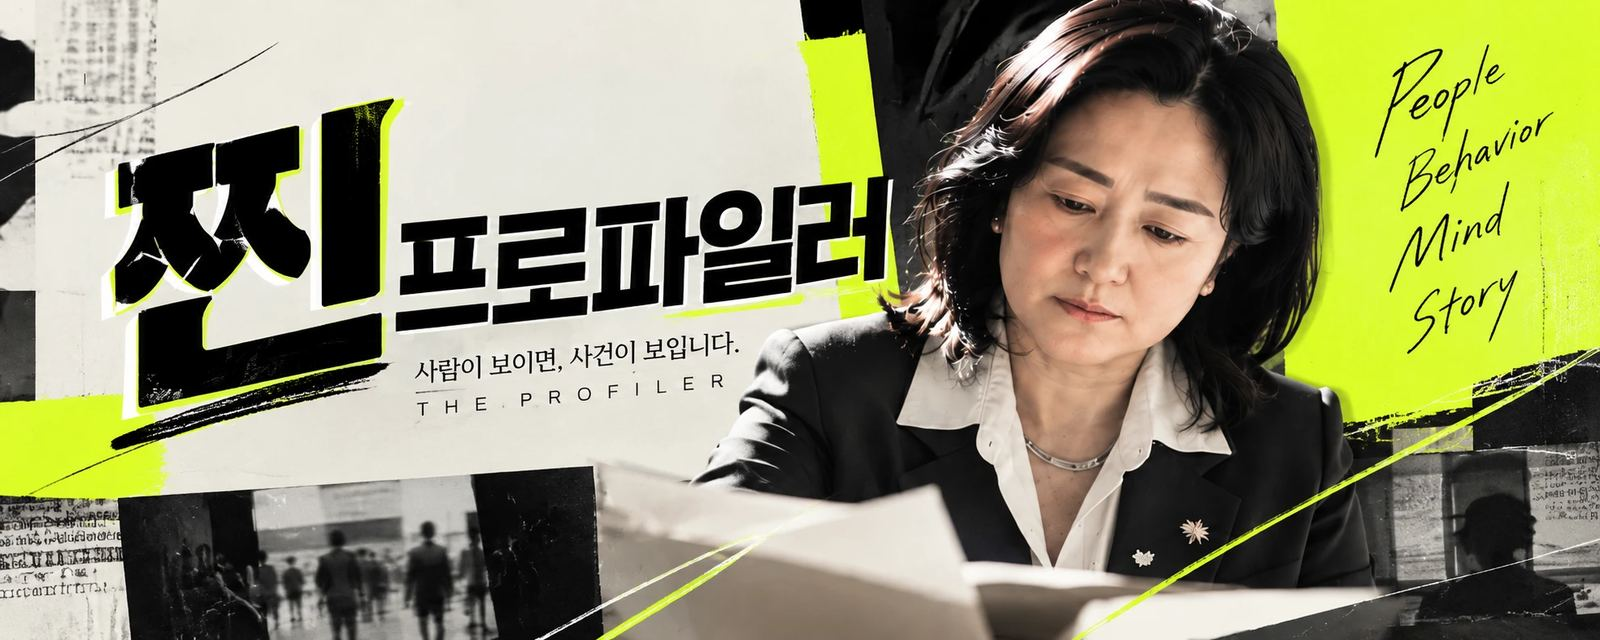
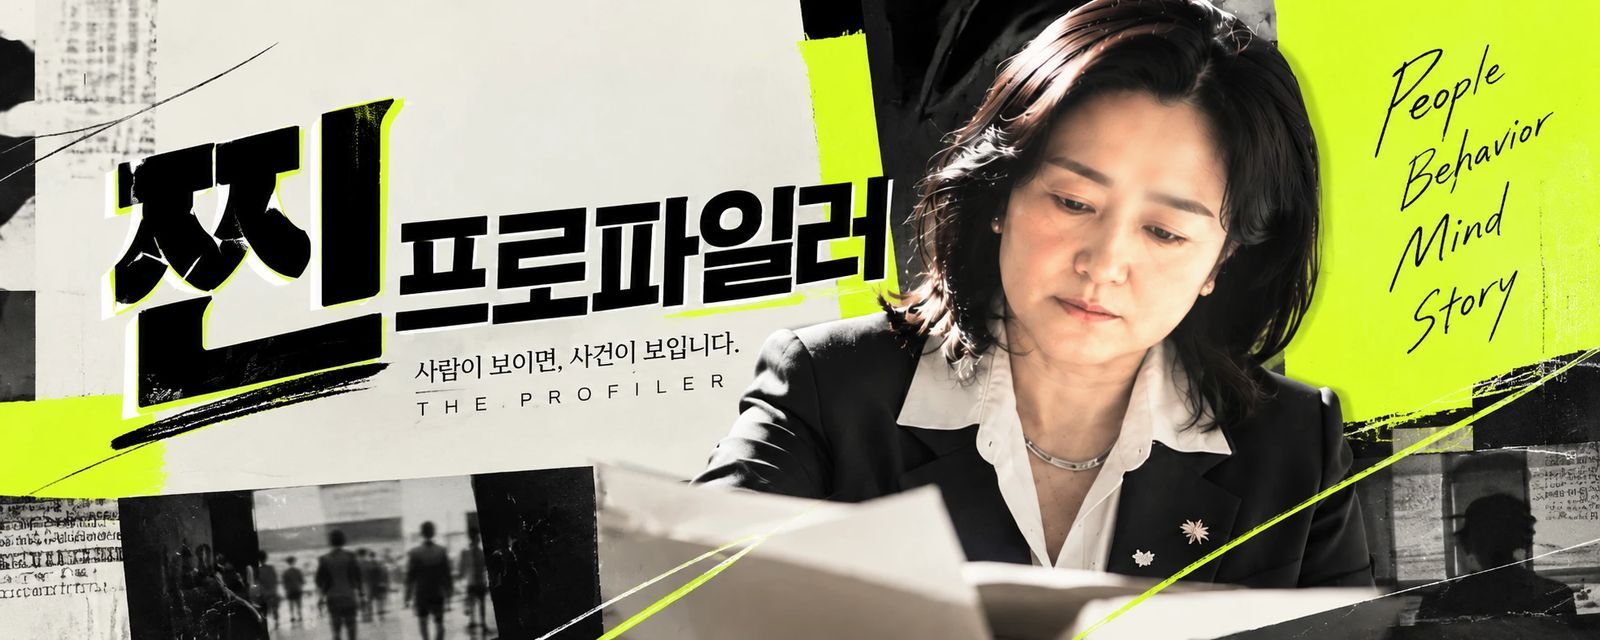
v12 미리보기: 찐 프로파일러 배너 얼굴 밝게
Claude-Session: https://claude.ai/code/session_01UNbqt54F8HmXHQV2RZRy25

Changed region(s): [[0.625, 0.1562, 0.7812, 0.6562]]

diff --git a/v12/profiling.html b/v12/profiling.html
@@ -3,7 +3,7 @@
 <meta name="description" content="사건 프로파일링보고서(의뢰인 면담 원칙, 작성사례, 의뢰절차)와 셀프 프로파일링 SP-CHANGE.">
 
 <link rel="preconnect" href="https://fonts.googleapis.com"><link rel="preconnect" href="https://fonts.gstatic.com" crossorigin=""><link rel="stylesheet" href="https://fonts.googleapis.com/css2?family=Nanum+Brush+Script&amp;family=Noto+Serif+KR:wght@400;500;600&amp;display=swap"><link rel="stylesheet" href="https://cdn.jsdelivr.net/gh/orioncactus/pretendard@v1.3.9/dist/web/variable/pretendardvariable-dynamic-subset.min.css">
-<link rel="stylesheet" href="site.css?v=202611200015">
+<link rel="stylesheet" href="site.css?v=202611200018">
 <meta property="og:image" content="https://profiling.kr/v12/img/ref-og-profiling.jpg"></head><body data-page="profiling">
 <a class="skip" href="#main">본문 바로가기</a>
 <header id="top">
@@ -212,6 +212,6 @@
 
 <!-- 보고서 구성 예시 (v3) -->
 <dialog id="sample-dialog" aria-labelledby="sample-title"><div class="modal-head"><span>보고서 구성 예시</span><button class="close" type="button" aria-label="예시 창 닫기">×</button></div><div class="modal-body"><span class="stamp">설명용 가상 예시 · 실제 사건 아님</span><h2 id="sample-title" style="margin-top:16px">분석 결과,<br>이렇게 살펴봅니다.</h2><p>보고서의 구성을 이해하기 위한 예시입니다. 실제 제공 항목과 형식은 의뢰 목적에 따라 협의합니다.</p><article class="sample-paper"><small>예시 01</small><h3>기록 간 시간 차이 검토</h3><section><b>01 &nbsp; 확인된 기록</b><p>가상 기록 A에는 ‘오후 3시’, 기록 B에는 ‘오후 4시’로 기재되어 있습니다.</p></section><section><b>02 &nbsp; 검토할 쟁점</b><p>두 기록이 같은 시점을 설명하는지, 시각이 추정인지 기록에 근거한 것인지 확인이 필요합니다.</p></section><section><b>03 &nbsp; 해석의 범위</b><p>시간 표현의 차이만으로 진술의 진위나 의도를 단정할 수 없습니다. 다른 기록과 작성 맥락을 함께 검토합니다.</p></section><section><b>04 &nbsp; 추가 확인 사항</b><p>원문, 작성 시점, 시간 표현의 근거와 관련 자료를 확인합니다.</p></section></article><p class="micro">이 예시는 보고서의 설명 방식을 보여 주는 가상 자료입니다.</p></div></dialog>
-<script src="site.js?v=202611200015"></script>
+<script src="site.js?v=202611200018"></script>
 
 </body></html>

diff --git a/v12/advice.html b/v12/advice.html
@@ -3,7 +3,7 @@
 <meta name="description" content="전문가 자문 — 형사사건 자문, 사건 관련 자문, 관계성 범죄 자문(가스라이팅·그루밍·심리적 지배·데이트 폭력·성범죄·학대).">
 
 <link rel="preconnect" href="https://fonts.googleapis.com"><link rel="preconnect" href="https://fonts.gstatic.com" crossorigin=""><link rel="stylesheet" href="https://fonts.googleapis.com/css2?family=Nanum+Brush+Script&amp;family=Noto+Serif+KR:wght@400;500;600&amp;display=swap"><link rel="stylesheet" href="https://cdn.jsdelivr.net/gh/orioncactus/pretendard@v1.3.9/dist/web/variable/pretendardvariable-dynamic-subset.min.css">
-<link rel="stylesheet" href="site.css?v=202611200015">
+<link rel="stylesheet" href="site.css?v=202611200018">
 <meta property="og:image" content="https://profiling.kr/v12/img/ref-og-profiling.jpg"></head><body data-page="advice">
 <a class="skip" href="#main">본문 바로가기</a>
 <header id="top">
@@ -138,6 +138,6 @@
   <p class="send-to">전화 문의 <a href="tel:0327102055">032-710-2055</a> · 이메일 <a href="mailto:moonprofiling@gmail.com">moonprofiling@gmail.com</a></p>
  </form>
 </div></dialog>
-<script src="site.js?v=202611200015"></script>
+<script src="site.js?v=202611200018"></script>
 
 </body></html>

diff --git a/v12/insight.html b/v12/insight.html
@@ -3,7 +3,7 @@
 <meta name="description" content="이진숙 프로파일러의 소식·칼럼·방송·출간 소식.">
 
 <link rel="preconnect" href="https://fonts.googleapis.com"><link rel="preconnect" href="https://fonts.gstatic.com" crossorigin=""><link rel="stylesheet" href="https://fonts.googleapis.com/css2?family=Nanum+Brush+Script&amp;family=Noto+Serif+KR:wght@400;500;600&amp;display=swap"><link rel="stylesheet" href="https://cdn.jsdelivr.net/gh/orioncactus/pretendard@v1.3.9/dist/web/variable/pretendardvariable-dynamic-subset.min.css">
-<link rel="stylesheet" href="site.css?v=202611200015">
+<link rel="stylesheet" href="site.css?v=202611200018">
 <meta property="og:image" content="https://profiling.kr/v12/img/ref-og-profiling.jpg"></head><body data-page="insight">
 <a class="skip" href="#main">본문 바로가기</a>
 <header id="top">
@@ -80,6 +80,6 @@
 
 <!-- 인사이트 글 창 -->
 <dialog id="post-dialog" aria-labelledby="post-title"><div class="modal-head"><span>인사이트</span><button class="close" type="button" aria-label="글 창 닫기">×</button></div><div class="modal-body article" id="post-body"></div></dialog>
-<script src="site.js?v=202611200015"></script>
+<script src="site.js?v=202611200018"></script>
 
 </body></html>

diff --git a/v12/contact.html b/v12/contact.html
@@ -3,7 +3,7 @@
 <meta name="description" content="상담/문의 — 연락/도움요청, 비용안내, 자주묻는 질문. 보낼 문의 내용을 정리해 복사할 수 있습니다.">
 
 <link rel="preconnect" href="https://fonts.googleapis.com"><link rel="preconnect" href="https://fonts.gstatic.com" crossorigin=""><link rel="stylesheet" href="https://fonts.googleapis.com/css2?family=Nanum+Brush+Script&amp;family=Noto+Serif+KR:wght@400;500;600&amp;display=swap"><link rel="stylesheet" href="https://cdn.jsdelivr.net/gh/orioncactus/pretendard@v1.3.9/dist/web/variable/pretendardvariable-dynamic-subset.min.css">
-<link rel="stylesheet" href="site.css?v=202611200015">
+<link rel="stylesheet" href="site.css?v=202611200018">
 <meta property="og:image" content="https://profiling.kr/v12/img/ref-og-profiling.jpg"></head><body data-page="contact">
 <a class="skip" href="#main">본문 바로가기</a>
 <header id="top">
@@ -91,6 +91,6 @@
   <p class="send-to">전화 문의 <a href="tel:0327102055">032-710-2055</a> · 이메일 <a href="mailto:moonprofiling@gmail.com">moonprofiling@gmail.com</a></p>
  </form>
 </div></dialog>
-<script src="site.js?v=202611200015"></script>
+<script src="site.js?v=202611200018"></script>
 
 </body></html>

diff --git a/v12/about.html b/v12/about.html
@@ -3,7 +3,7 @@
 <meta name="description" content="이진숙 프로파일러와 이진숙 프로파일링 연구소 門 소개. 경력·수상·자격과 연구소 철학.">
 
 <link rel="preconnect" href="https://fonts.googleapis.com"><link rel="preconnect" href="https://fonts.gstatic.com" crossorigin=""><link rel="stylesheet" href="https://fonts.googleapis.com/css2?family=Nanum+Brush+Script&amp;family=Noto+Serif+KR:wght@400;500;600;700;900&amp;display=swap"><link rel="stylesheet" href="https://cdn.jsdelivr.net/gh/orioncactus/pretendard@v1.3.9/dist/web/variable/pretendardvariable-dynamic-subset.min.css">
-<link rel="stylesheet" href="site.css?v=202611200015">
+<link rel="stylesheet" href="site.css?v=202611200018">
 <meta property="og:image" content="https://profiling.kr/v12/img/ref-og-profiling.jpg"></head><body data-page="about">
 <a class="skip" href="#main">본문 바로가기</a>
 <header id="top">
@@ -117,6 +117,6 @@
   <p class="send-to">전화 문의 <a href="tel:0327102055">032-710-2055</a> · 이메일 <a href="mailto:moonprofiling@gmail.com">moonprofiling@gmail.com</a></p>
  </form>
 </div></dialog>
-<script src="site.js?v=202611200015"></script>
+<script src="site.js?v=202611200018"></script>
 
 </body></html>

diff --git a/v12/sias.html b/v12/sias.html
@@ -3,7 +3,7 @@
 <meta name="description" content="진술분석 SIAS: 진술·녹취·메시지 분석. 분석 대상, 방법론(SCAN·SVA·CBCA), 분석 절차.">
 
 <link rel="preconnect" href="https://fonts.googleapis.com"><link rel="preconnect" href="https://fonts.gstatic.com" crossorigin=""><link rel="stylesheet" href="https://fonts.googleapis.com/css2?family=Nanum+Brush+Script&amp;family=Noto+Serif+KR:wght@400;500;600&amp;display=swap"><link rel="stylesheet" href="https://cdn.jsdelivr.net/gh/orioncactus/pretendard@v1.3.9/dist/web/variable/pretendardvariable-dynamic-subset.min.css">
-<link rel="stylesheet" href="site.css?v=202611200015">
+<link rel="stylesheet" href="site.css?v=202611200018">
 <meta property="og:image" content="https://profiling.kr/v12/img/ref-og-profiling.jpg"></head><body data-page="sias">
 <a class="skip" href="#main">본문 바로가기</a>
 <header id="top">
@@ -231,6 +231,6 @@
   <p class="send-to">전화 문의 <a href="tel:0327102055">032-710-2055</a> · 이메일 <a href="mailto:moonprofiling@gmail.com">moonprofiling@gmail.com</a></p>
  </form>
 </div></dialog>
-<script src="site.js?v=202611200015"></script>
+<script src="site.js?v=202611200018"></script>
 
 </body></html>

diff --git a/v12/edu.html b/v12/edu.html
@@ -3,7 +3,7 @@
 <meta name="description" content="기업·공공기관 강연, 방송·언론 출연, 프로파일링 아카데미(진술분석 실무자 과정).">
 
 <link rel="preconnect" href="https://fonts.googleapis.com"><link rel="preconnect" href="https://fonts.gstatic.com" crossorigin=""><link rel="stylesheet" href="https://fonts.googleapis.com/css2?family=Nanum+Brush+Script&amp;family=Noto+Serif+KR:wght@400;500;600&amp;display=swap"><link rel="stylesheet" href="https://cdn.jsdelivr.net/gh/orioncactus/pretendard@v1.3.9/dist/web/variable/pretendardvariable-dynamic-subset.min.css">
-<link rel="stylesheet" href="site.css?v=202611200015">
+<link rel="stylesheet" href="site.css?v=202611200018">
 <meta property="og:image" content="https://profiling.kr/v12/img/ref-og-profiling.jpg"></head><body data-page="edu">
 <a class="skip" href="#main">본문 바로가기</a>
 <header id="top">
@@ -86,6 +86,6 @@
   <p class="send-to">전화 문의 <a href="tel:0327102055">032-710-2055</a> · 이메일 <a href="mailto:moonprofiling@gmail.com">moonprofiling@gmail.com</a></p>
  </form>
 </div></dialog>
-<script src="site.js?v=202611200015"></script>
+<script src="site.js?v=202611200018"></script>
 
 </body></html>

diff --git a/v12/tests.html b/v12/tests.html
@@ -3,7 +3,7 @@
 <meta name="description" content="관계·감정·욕구·스트레스·성격을 보는 9가지 심리검사와 1:1 전문가 상담.">
 
 <link rel="preconnect" href="https://fonts.googleapis.com"><link rel="preconnect" href="https://fonts.gstatic.com" crossorigin=""><link rel="stylesheet" href="https://fonts.googleapis.com/css2?family=Nanum+Brush+Script&amp;family=Noto+Serif+KR:wght@400;500;600&amp;display=swap"><link rel="stylesheet" href="https://cdn.jsdelivr.net/gh/orioncactus/pretendard@v1.3.9/dist/web/variable/pretendardvariable-dynamic-subset.min.css">
-<link rel="stylesheet" href="site.css?v=202611200015">
+<link rel="stylesheet" href="site.css?v=202611200018">
 <meta property="og:image" content="https://profiling.kr/v12/img/ref-og-profiling.jpg"></head><body data-page="tests">
 <a class="skip" href="#main">본문 바로가기</a>
 <header id="top">
@@ -89,6 +89,6 @@
   <p class="send-to">전화 문의 <a href="tel:0327102055">032-710-2055</a> · 이메일 <a href="mailto:moonprofiling@gmail.com">moonprofiling@gmail.com</a></p>
  </form>
 </div></dialog>
-<script src="site.js?v=202611200015"></script>
+<script src="site.js?v=202611200018"></script>
 
 </body></html>
